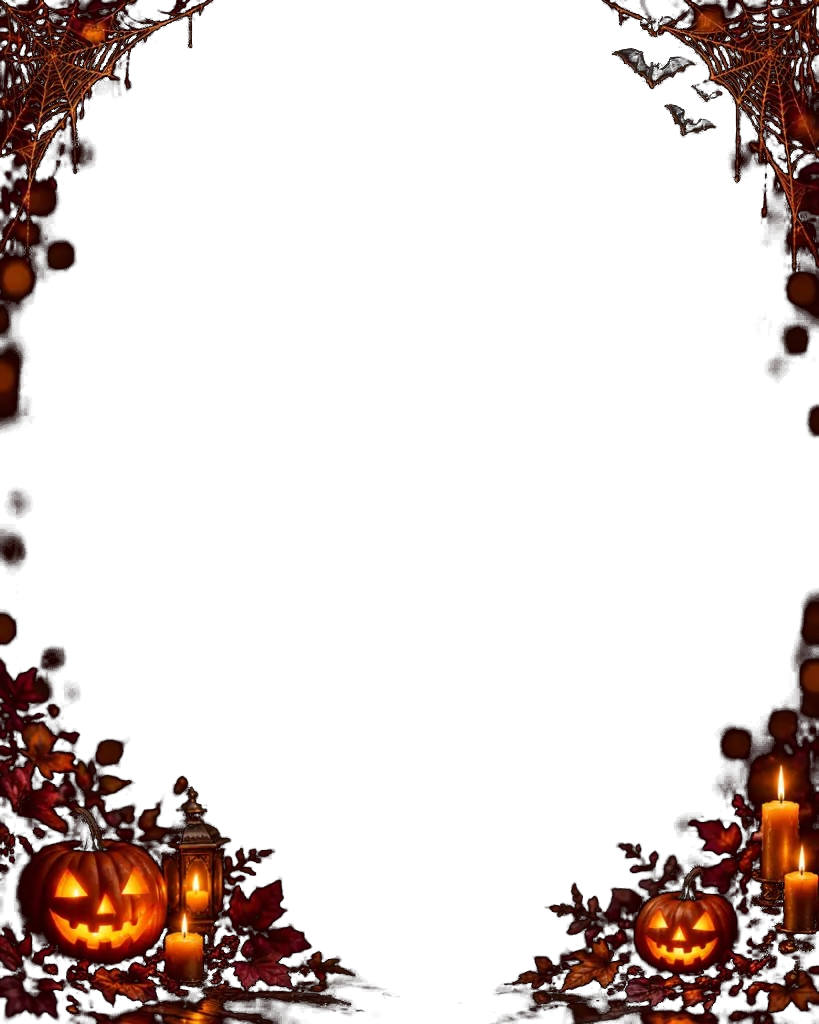
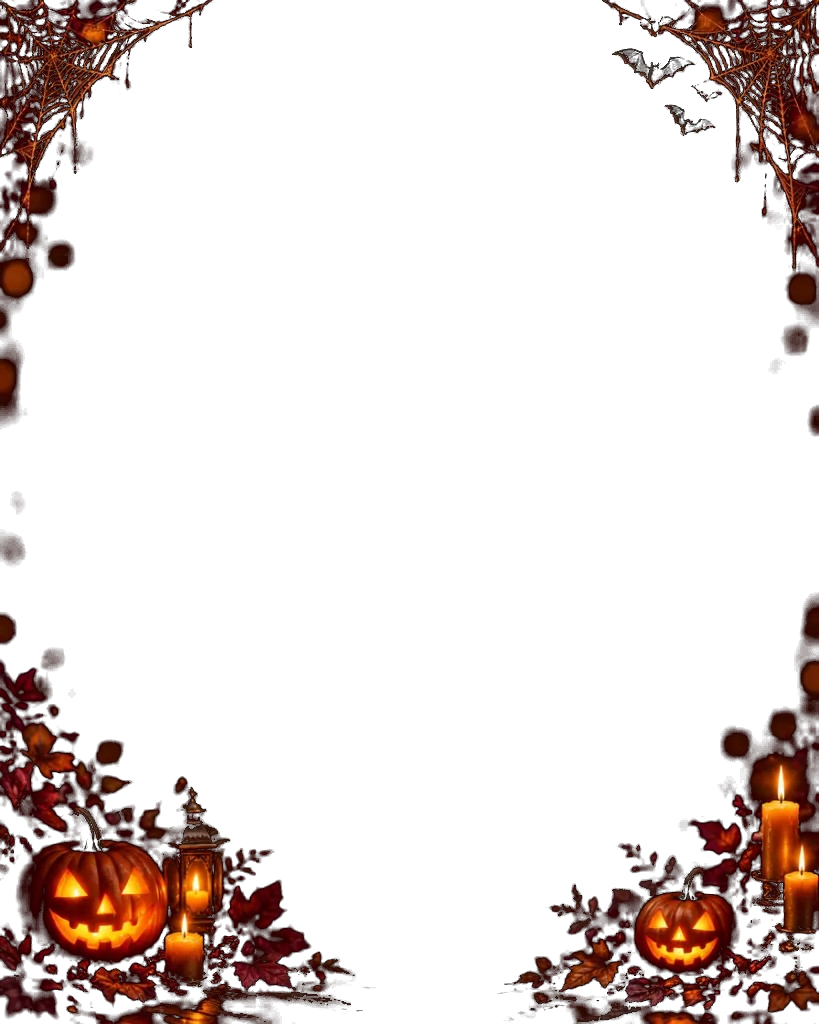
design: use the dripping Halloween wordmark and gold corner webs
The hero title now matches the approved dripping type, and each name plate keeps the photo visible inside a decorative frame with ornate gold webs.

diff --git a/styles/halloween-cinematic.css b/styles/halloween-cinematic.css
@@ -852,6 +852,49 @@
   box-shadow:0 0 22px rgba(255,110,20,.72)!important;
 }
 .vf-halloween-preview .vf-halloween-wordmark{display:flex!important;}
+.vf-halloween-preview .vf-halloween-wordmark__art{
+  display:block;
+  width:min(100%, 520px);
+  height:auto;
+  margin:0 auto 2px;
+  pointer-events:none;
+  filter:drop-shadow(0 8px 18px rgba(80,16,0,.45));
+}
+.vf-halloween-preview .vf-halloween-model-info,
+.vf-halloween-preview .vf-halloween-home-info,
+.vf-halloween-preview .home-novedades-vf .vf-news-card__body{
+  box-shadow:inset 0 0 0 1px rgba(214,168,92,.92), inset 0 0 0 4px rgba(12,6,8,.96), inset 0 0 0 5px rgba(214,168,92,.45);
+}
+.vf-halloween-preview .vf-halloween-info-webs{
+  position:absolute!important;
+  inset:0;
+  z-index:0;
+  width:auto!important;
+  height:auto!important;
+  max-width:none!important;
+  pointer-events:none;
+  opacity:1!important;
+}
+.vf-halloween-preview .vf-halloween-info-web{
+  position:absolute!important;
+  top:2px!important;
+  width:42%!important;
+  max-width:118px!important;
+  height:72%!important;
+  max-height:92px!important;
+  object-fit:contain!important;
+  object-position:left top!important;
+  opacity:1!important;
+  color:unset!important;
+  pointer-events:none;
+  filter:drop-shadow(0 1px 1px rgba(40,16,0,.35));
+}
+.vf-halloween-preview .vf-halloween-info-web--left{left:2px!important;right:auto!important;}
+.vf-halloween-preview .vf-halloween-info-web--right{
+  right:2px!important;
+  left:auto!important;
+  object-position:right top!important;
+}
 
 .vf-halloween-preview .card-photo{
   position:relative;
@@ -886,7 +929,7 @@
     align-items:center;
     min-height:clamp(740px, 86svh, 940px);
     height:auto!important;
-    padding:128px 4vw 64px 6vw;
+    padding:176px 4vw 48px 6vw;
   }
   .vf-halloween-preview .vf-halloween-hero .vf-halloween-photographic-hero{
     left:auto!important;
@@ -915,6 +958,7 @@
   }
   .vf-halloween-preview .vf-halloween-hero__line{font-size:12px;letter-spacing:.18em;}
   .vf-halloween-preview .vf-halloween-values{max-width:560px;margin:26px auto 0;}
+  .vf-halloween-preview .vf-halloween-wordmark__art{width:min(100%, 500px);}
 }
 @media (max-width:767px){
   .vf-halloween-preview .vf-halloween-hero{
@@ -956,4 +1000,5 @@
     letter-spacing:.06em;
   }
   .vf-halloween-preview .vf-halloween-hero__pumpkin{font-size:16px;}
+  .vf-halloween-preview .vf-halloween-wordmark__art{width:min(100%, 360px);}
 }

diff --git a/components/HalloweenCardOverlay.tsx b/components/HalloweenCardOverlay.tsx
@@ -7,6 +7,8 @@ import { halloweenIsLive } from './HalloweenCampaign';
  * no puede dibujar un fondo negro sobre el rostro ni sobre el centro.
  */
 const CARD_FRAME = '/images/halloween-card-frame.png';
+const WEB_LEFT = '/images/halloween-web-left.png';
+const WEB_RIGHT = '/images/halloween-web-right.png';
 
 export const HalloweenWeb: React.FC<{ className?: string; flip?: boolean }> = ({ className = '', flip = false }) => (
   <svg className={className} viewBox="0 0 128 128" aria-hidden="true" fill="none"
@@ -29,8 +31,8 @@ export const HalloweenInfoWebs: React.FC = () => {
   if (!halloweenIsLive()) return null;
   return (
     <span className="vf-halloween-info-webs" aria-hidden="true">
-      <HalloweenWeb className="vf-halloween-info-web vf-halloween-info-web--left" />
-      <HalloweenWeb flip className="vf-halloween-info-web vf-halloween-info-web--right" />
+      <img src={WEB_LEFT} alt="" decoding="async" className="vf-halloween-info-web vf-halloween-info-web--left" />
+      <img src={WEB_RIGHT} alt="" decoding="async" className="vf-halloween-info-web vf-halloween-info-web--right" />
     </span>
   );
 };

diff --git a/components/Hero.tsx b/components/Hero.tsx
@@ -151,9 +151,7 @@ const Hero = () => {
 
         {halloween && (
           <div className="vf-halloween-wordmark" aria-label="Especial Halloween">
-            <span className="vf-halloween-wordmark__kicker">ESPECIAL</span>
-            <strong>HALL<span className="vf-halloween-wordmark__pumpkin" aria-label="O">O</span>WEEN</strong>
-            <span className="vf-halloween-wordmark__bats" aria-hidden="true">✦</span>
+            <img src="/images/halloween-wordmark.png" alt="" className="vf-halloween-wordmark__art" />
           </div>
         )}
 
